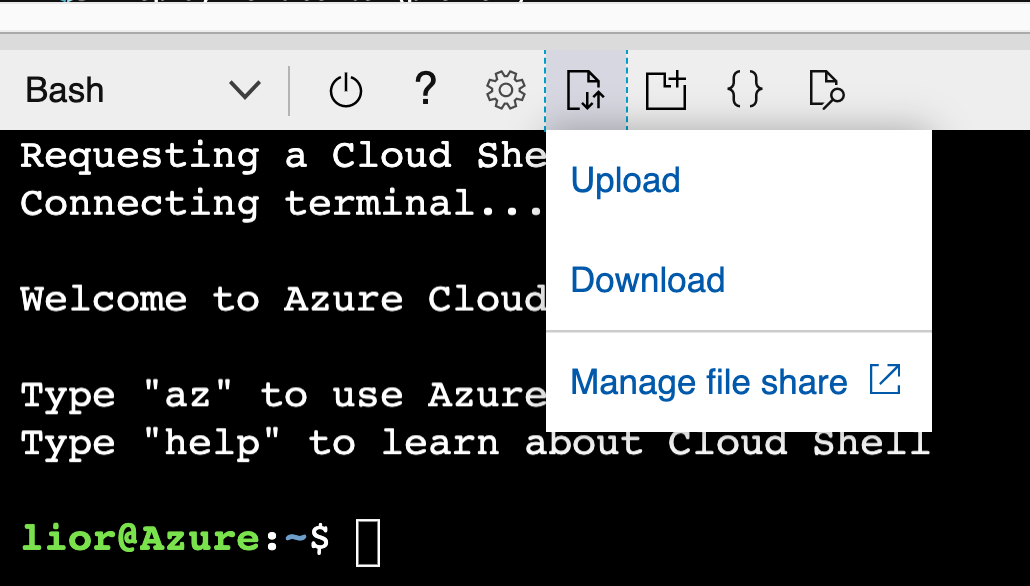
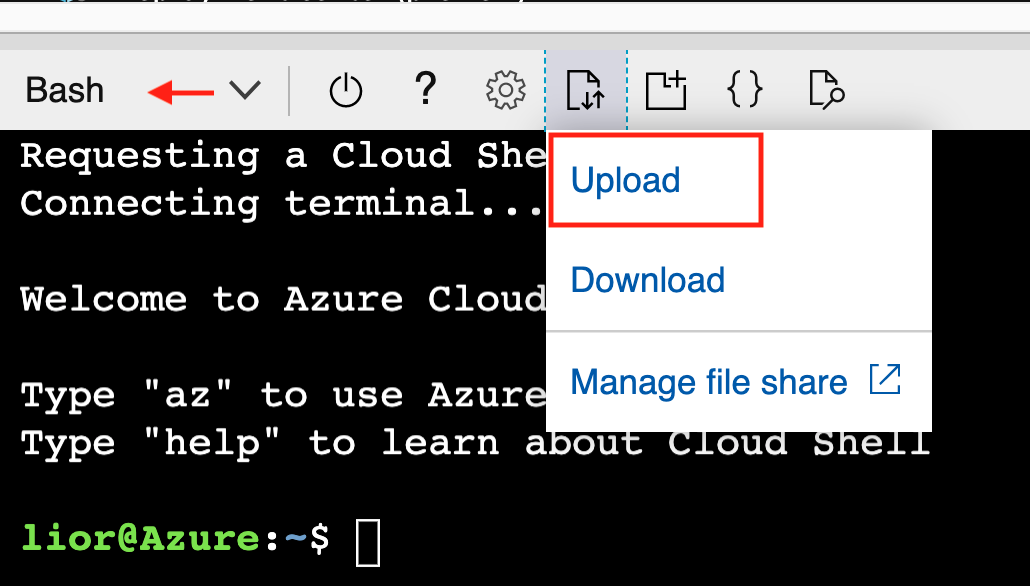
fix vars syntax

Changed region(s): [[0.5282, 0.215, 0.7456, 0.3993], [0.1243, 0.1229, 0.2175, 0.1843]]

diff --git a/azure_arc_k8s_jumpstart/docs/aks_arm_template.md b/azure_arc_k8s_jumpstart/docs/aks_arm_template.md
@@ -90,7 +90,7 @@ Once the ARM template deployment is completed, a new AKS cluster in a new Azure 
 
 ![](../img/aks_arm_template/04.png)
 
-* In order to keep your local environment clean and untouched, we will use [Azure Cloud Shell](https://docs.microsoft.com/en-us/azure/cloud-shell/overview) (located in the top-right corner in the Azure portal) to run the *az_connect_aks* shell script against the AKS cluster. 
+* In order to keep your local environment clean and untouched, we will use [Azure Cloud Shell](https://docs.microsoft.com/en-us/azure/cloud-shell/overview) (located in the top-right corner in the Azure portal) to run the *az_connect_aks* shell script against the AKS cluster. Make sure Cloud Shell is configured to use Bash.
 
 ![](../img/aks_arm_template/05.png)
 

diff --git a/azure_arc_k8s_jumpstart/docs/aks_terraform.md b/azure_arc_k8s_jumpstart/docs/aks_terraform.md
@@ -57,7 +57,7 @@ Once the Terraform deployment is completed, a new AKS cluster in a new Azure Res
 
 ![](../img/aks_terraform/05.png)
 
-* In order to keep your local environment clean and untouched, we will use [Azure Cloud Shell](https://docs.microsoft.com/en-us/azure/cloud-shell/overview) (located in the top-right corner in the Azure portal) to run the *az_connect_aks* shell script against the AKS cluster. 
+* In order to keep your local environment clean and untouched, we will use [Azure Cloud Shell](https://docs.microsoft.com/en-us/azure/cloud-shell/overview) (located in the top-right corner in the Azure portal) to run the *az_connect_aks* shell script against the AKS cluster. Make sure Cloud Shell is configured to use Bash. 
 
 ![](../img/aks_terraform/06.png)
 
